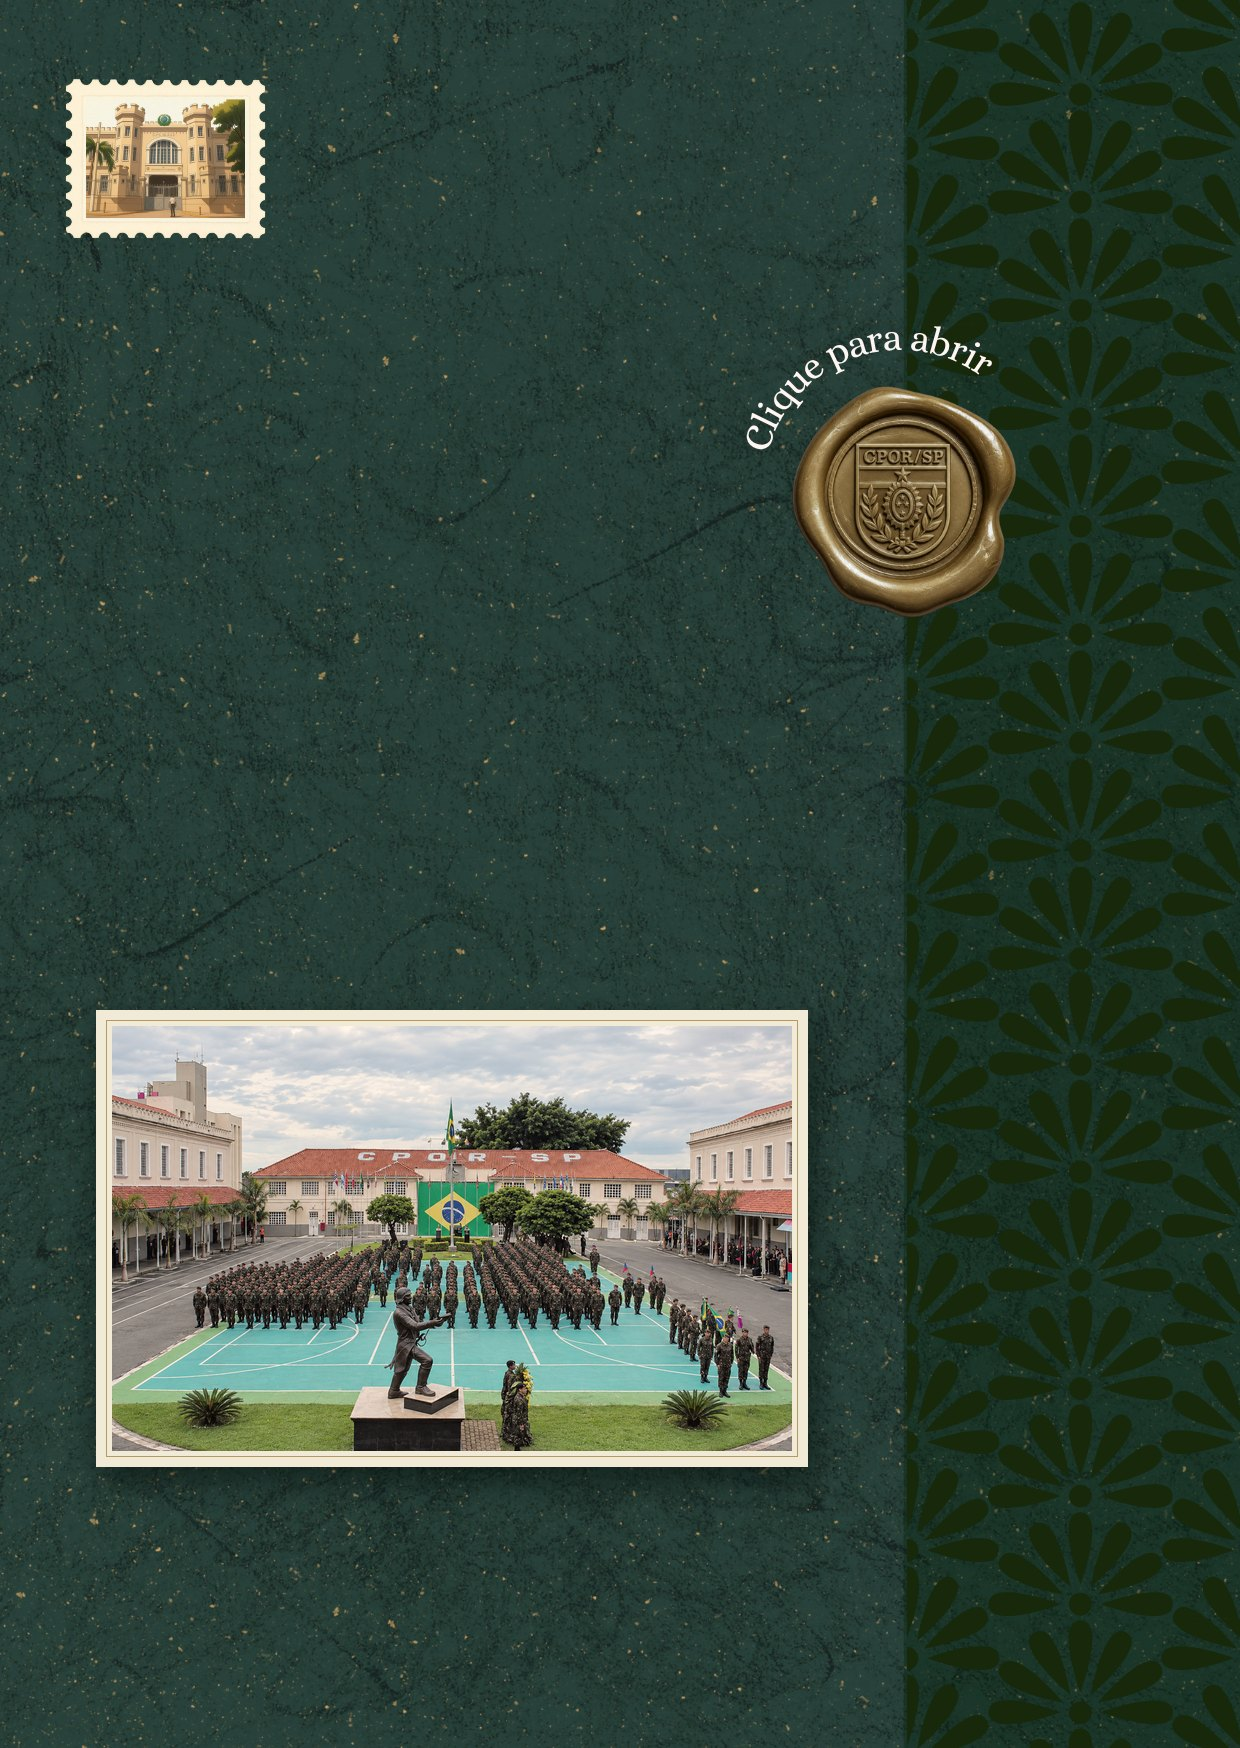
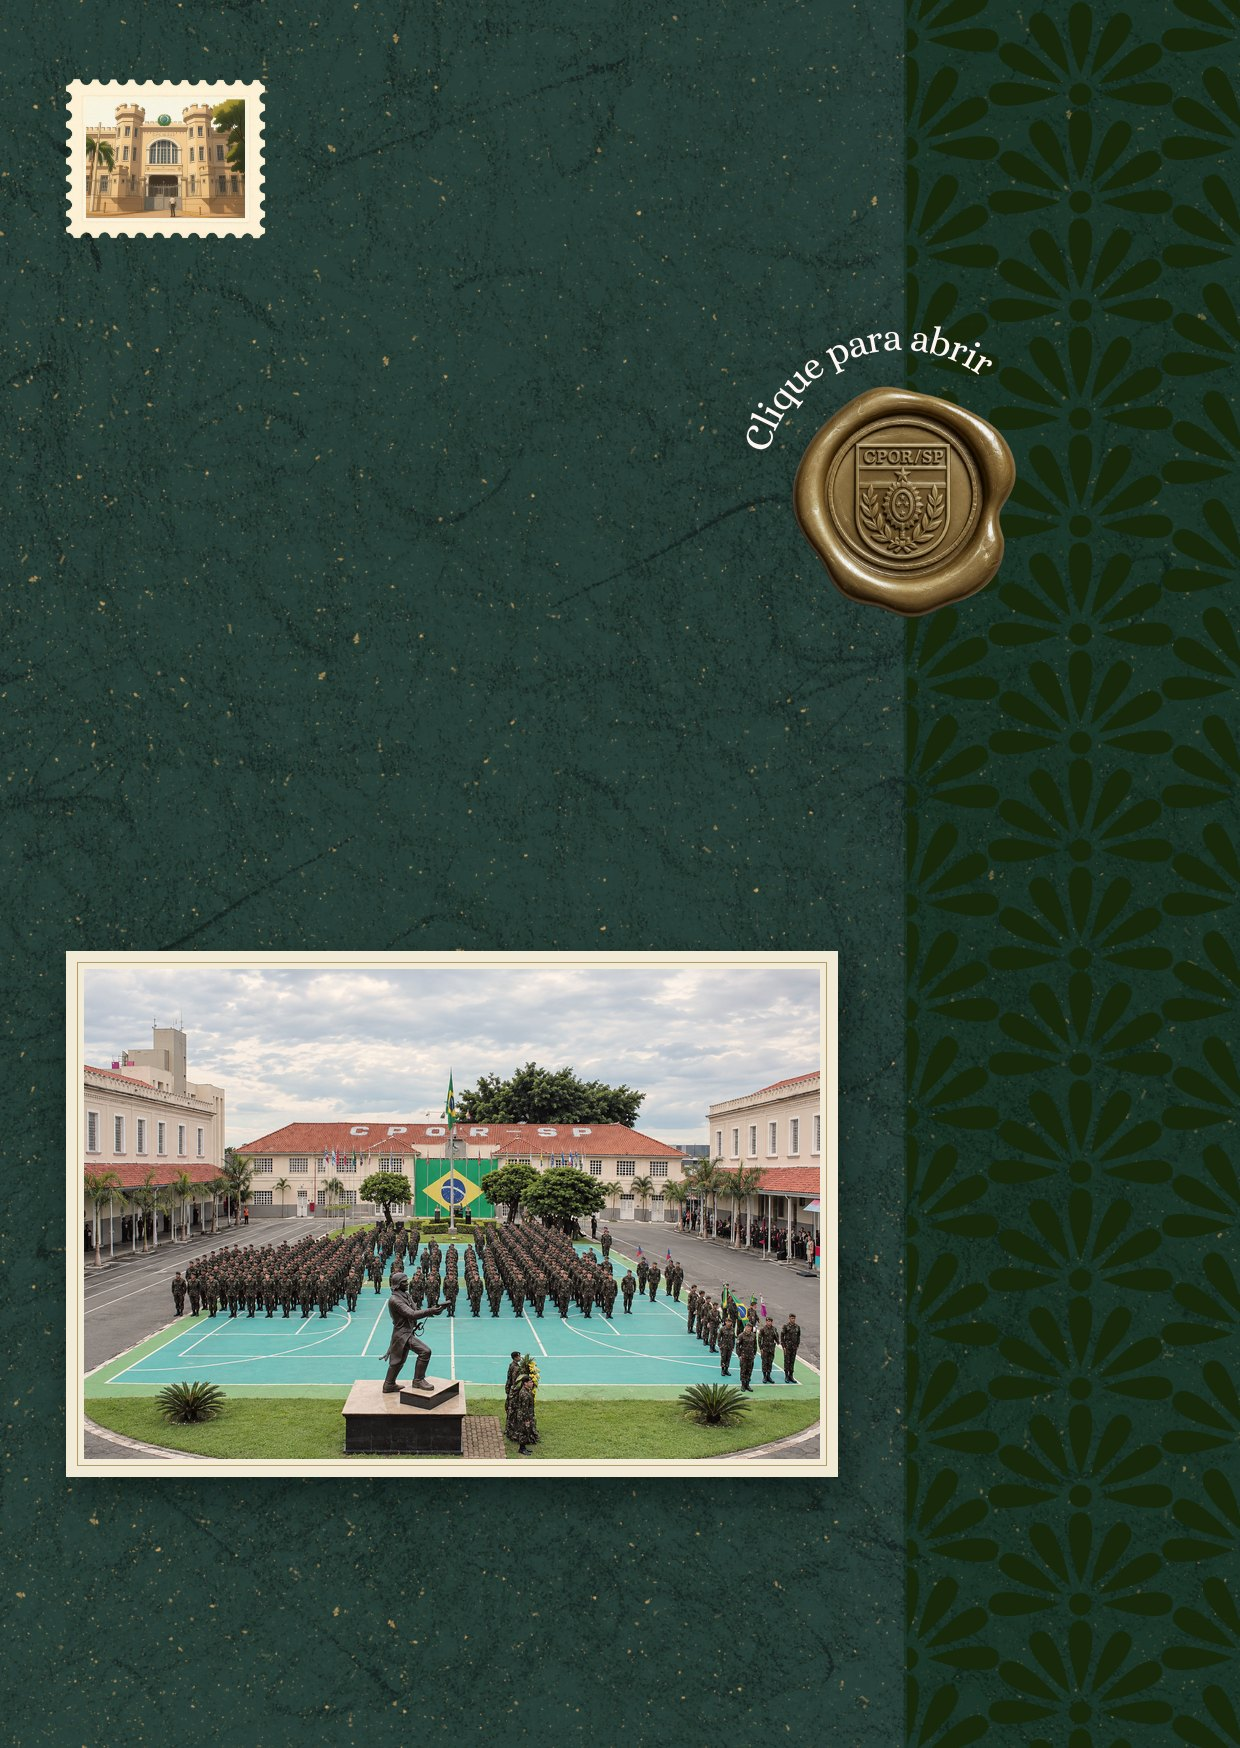
Capas: brasão maior e girado no canto, foto maior; página com as três opções
Claude-Session: https://claude.ai/code/session_01V1TRpwwDnXHGDhL8kQ61XA

Changed region(s): [[0.0306, 0.5252, 0.6742, 0.865]]

diff --git a/opcoes.html b/opcoes.html
@@ -1,0 +1,75 @@
+<!doctype html>
+<html lang="pt-BR">
+<head>
+<meta charset="utf-8">
+<meta name="viewport" content="width=device-width, initial-scale=1">
+<title>Convite CPOR/SP — opções de capa</title>
+<link href="https://fonts.googleapis.com/css2?family=Cormorant+Garamond:wght@500;600&display=swap" rel="stylesheet">
+<style>
+  :root { --creme: #f2ecd8; --dourado: #b39a62; --fundo: #13261f; }
+  * { box-sizing: border-box; }
+  body {
+    margin: 0;
+    min-height: 100svh;
+    background: radial-gradient(ellipse at 50% 20%, #284a40, var(--fundo) 75%) fixed;
+    background-color: #1b342b;
+    color: var(--creme);
+    font-family: "Cormorant Garamond", Georgia, serif;
+  }
+  main { max-width: 1100px; margin: 0 auto; padding: 40px 16px 56px; }
+  h1 {
+    margin: 0 0 32px;
+    text-align: center;
+    font-weight: 600;
+    font-size: 18px;
+    letter-spacing: .22em;
+    text-transform: uppercase;
+  }
+  .grade {
+    display: grid;
+    grid-template-columns: repeat(auto-fit, minmax(240px, 1fr));
+    gap: 32px;
+  }
+  a { color: inherit; text-decoration: none; display: block; }
+  img {
+    display: block;
+    width: 100%;
+    aspect-ratio: 1240 / 1748;
+    border-radius: 3px;
+    box-shadow: 0 30px 60px -20px rgba(4, 12, 9, .85), 0 10px 20px -10px rgba(4, 12, 9, .6);
+  }
+  .nome {
+    margin-top: 16px;
+    text-align: center;
+    font-weight: 600;
+    font-size: 15px;
+    letter-spacing: .18em;
+    text-transform: uppercase;
+  }
+  .nota { margin-top: 4px; text-align: center; font-size: 17px; color: rgba(242, 236, 216, .75); }
+  a:focus-visible img { outline: 2px solid var(--dourado); outline-offset: 4px; }
+</style>
+</head>
+<body>
+<main>
+  <h1>Convite CPOR/SP · Opções de capa</h1>
+  <div class="grade">
+    <a href="index.html">
+      <img src="assets/convite-1.jpg" alt="Capa original">
+      <div class="nome">1 · Original</div>
+      <div class="nota">Envelope com selo de cera</div>
+    </a>
+    <a href="capa-marca-dagua.html">
+      <img src="assets/convite-1-marca.jpg" alt="Capa com o brasão em relevo">
+      <div class="nome">2 · Brasão em relevo</div>
+      <div class="nota">Marca-d'água no papel</div>
+    </a>
+    <a href="capa-foto.html">
+      <img src="assets/convite-1-foto.jpg" alt="Capa com a foto aérea do CPOR/SP">
+      <div class="nome">3 · Foto aérea</div>
+      <div class="nota">Fotografia abaixo do selo</div>
+    </a>
+  </div>
+</main>
+</body>
+</html>

diff --git a/README.md b/README.md
@@ -17,9 +17,11 @@ O cartão aberto pode ser ampliado com os gestos de sempre: pinça ou dois toque
 Para trocar uma arte, substitua o arquivo em `assets/` mantendo o nome e a proporção 1240 × 1748.
 
 ## Capas alternativas
+As três ficam lado a lado em `opcoes.html`.
+
 Só a capa (envelope) muda; o resto é igual.
 - `index.html` — capa original
-- `capa-marca-dagua.html` — brasão do CPOR/SP em relevo no papel, como marca-d'água
-- `capa-foto.html` — foto aérea do CPOR/SP como uma fotografia sobre o papel, abaixo do selo
+- `capa-marca-dagua.html` — brasão do CPOR/SP em relevo no papel, como marca-d'água, grande, no canto e levemente girado
+- `capa-foto.html` — foto aérea do CPOR/SP como uma fotografia sobre o papel, ocupando o espaço abaixo do selo
 
 Se mudar algo no `index.html`, gere as outras duas de novo trocando `assets/convite-1.jpg` por `assets/convite-1-marca.jpg` ou `assets/convite-1-foto.jpg`.
